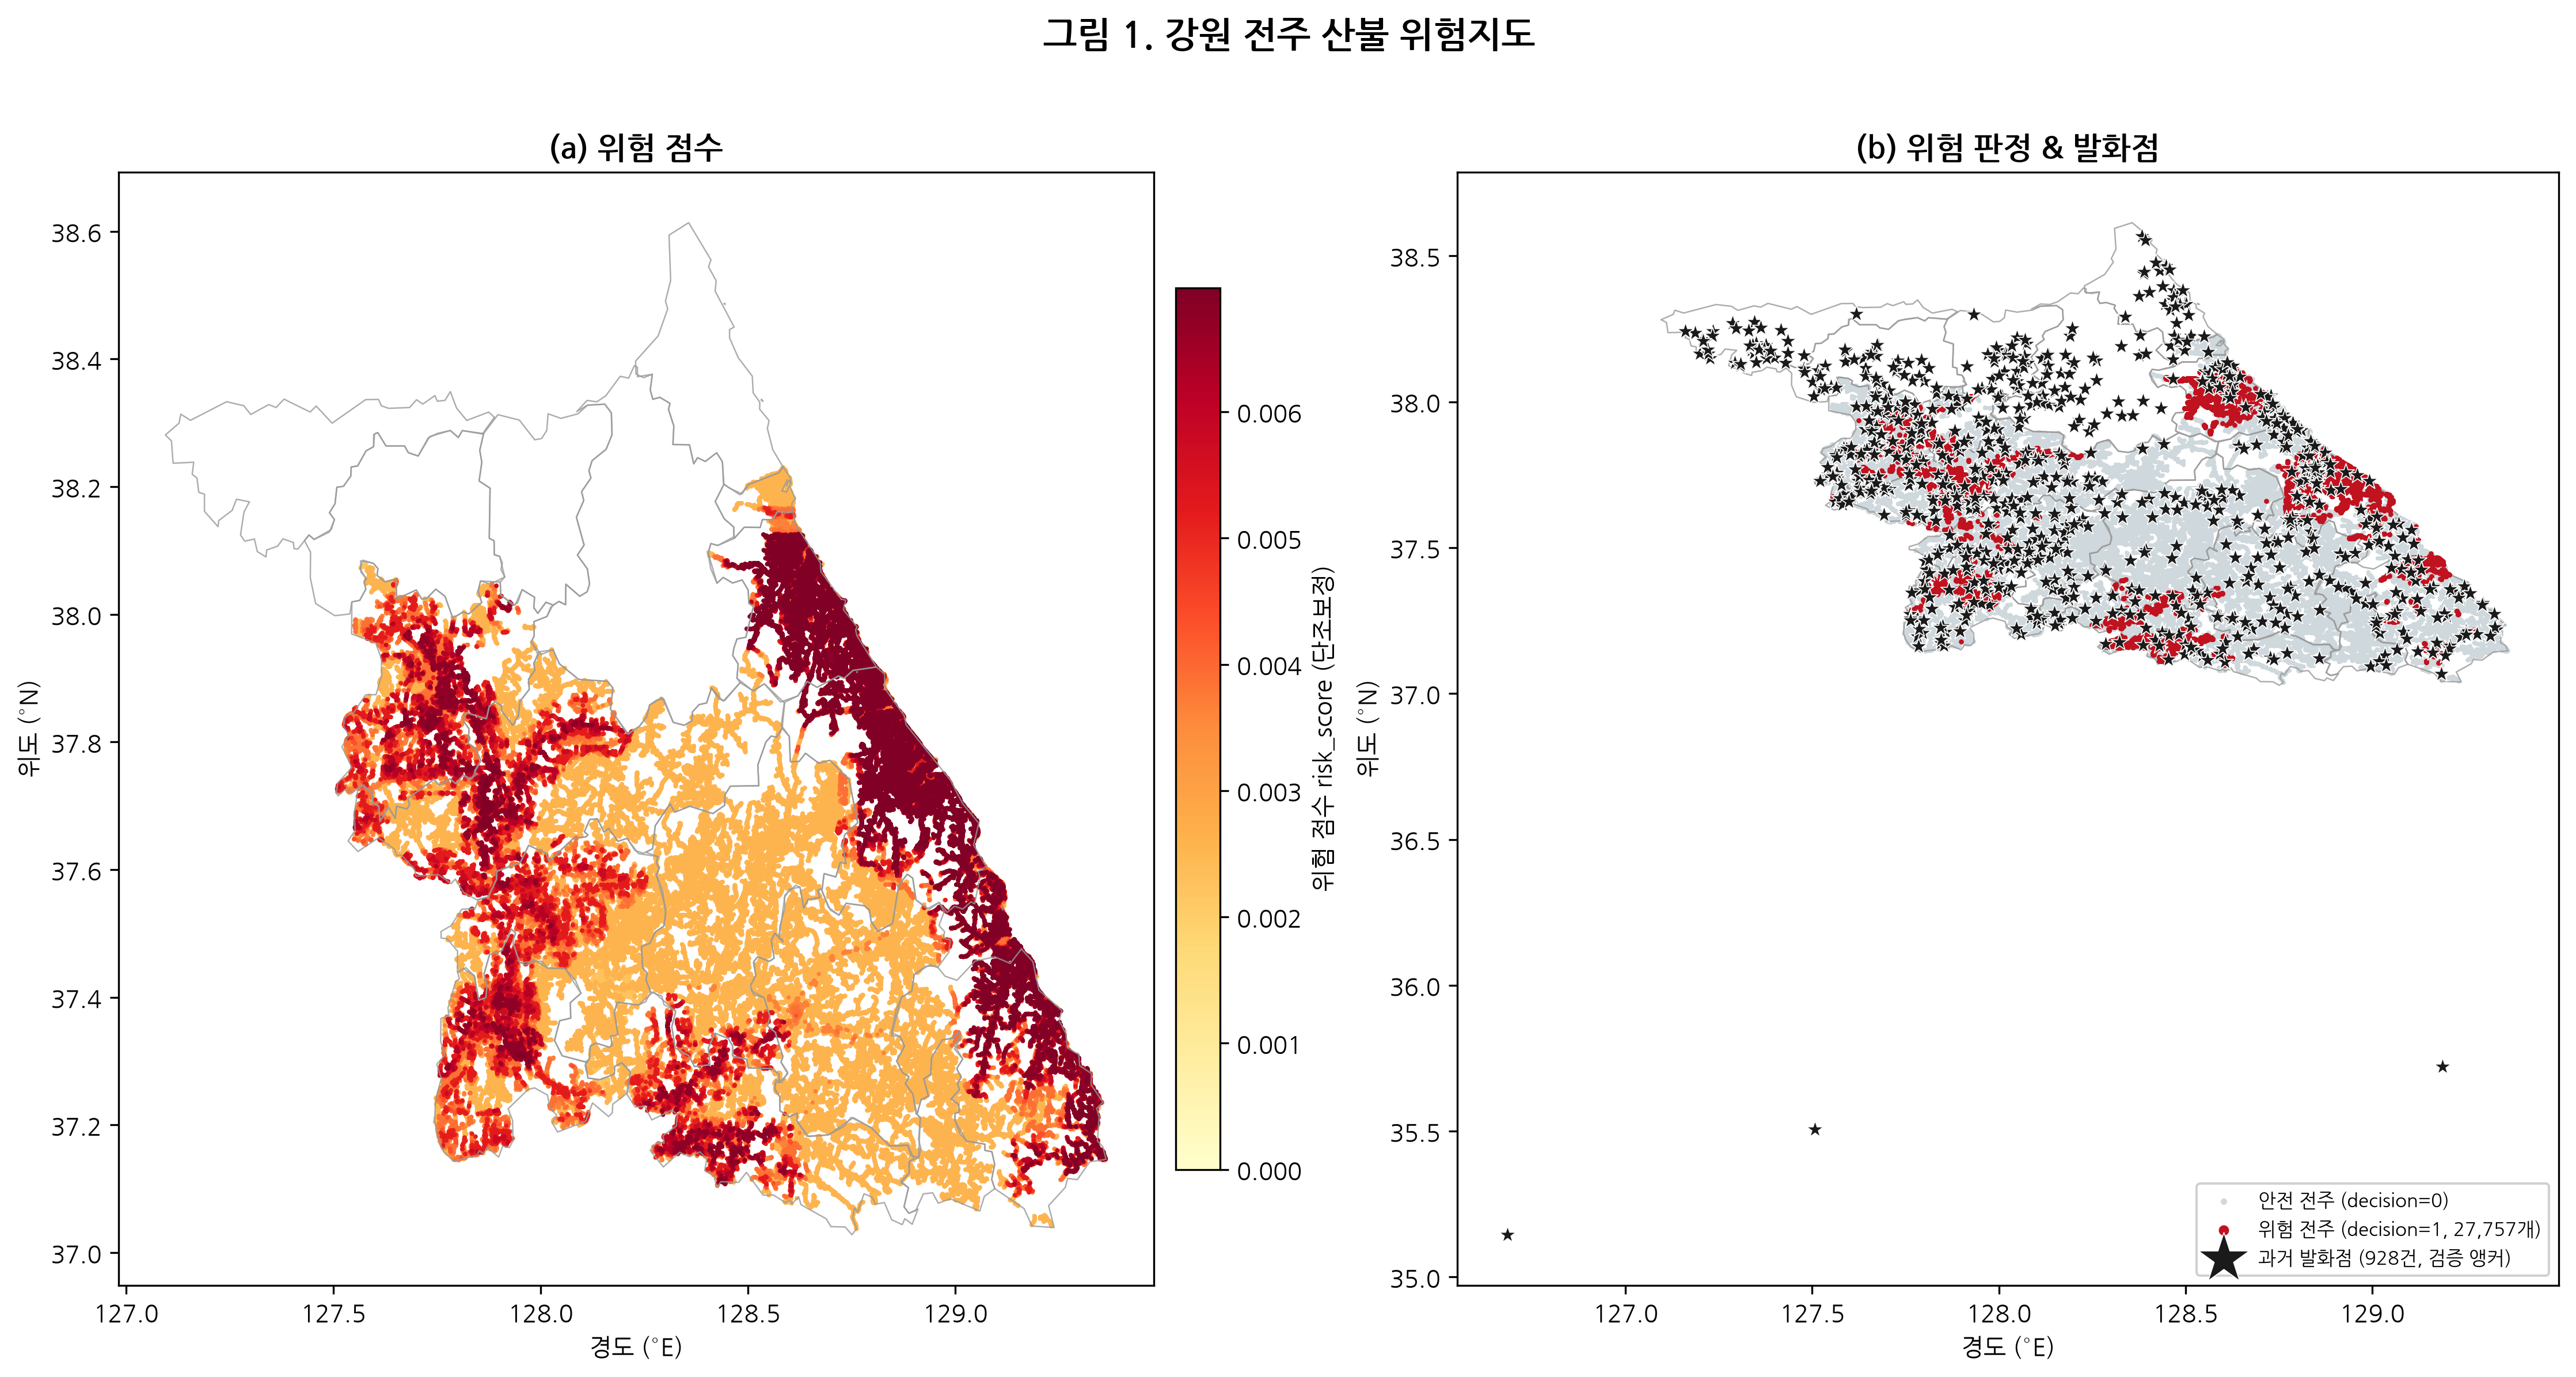
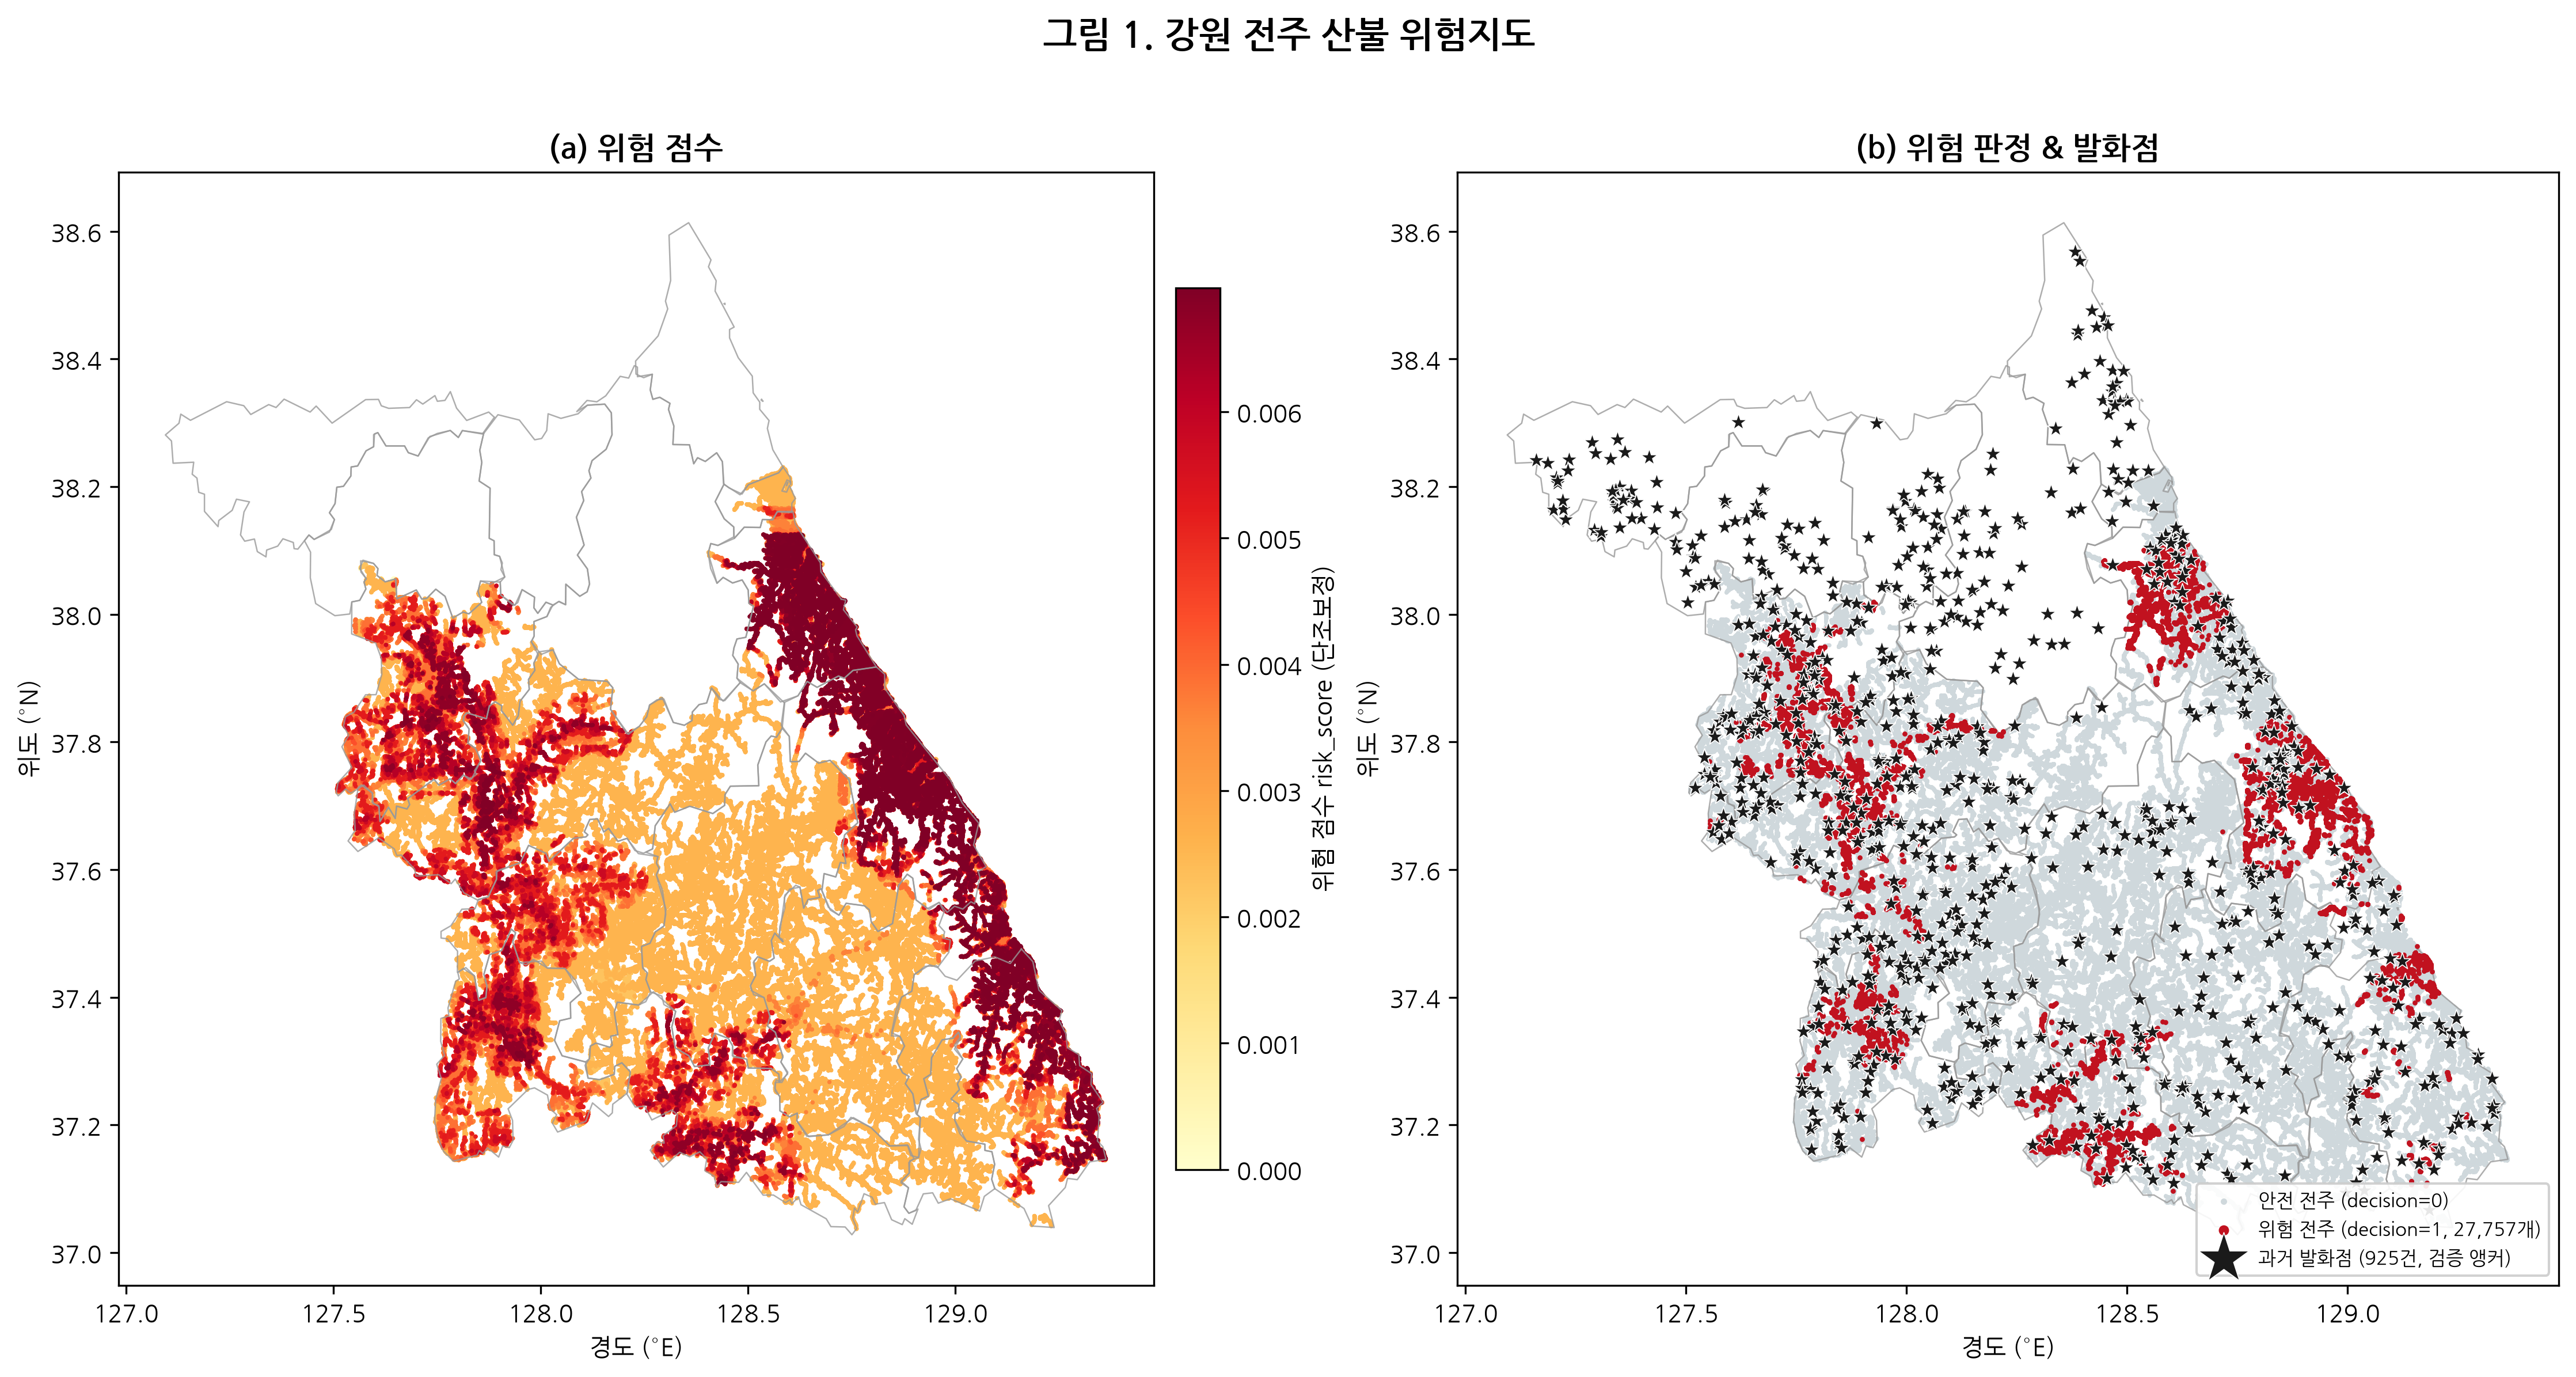
fix(figures): 발화점 강원 박스 필터 — 좌표오염 3건(35°N대) 제거
load_positives 가 '강원만' 주석과 달리 필터가 없어 강원 밖 safemap 좌표오염
3건(전남·경남·울산권, 35°N대)이 fig1(b)·fig5 하단에 점으로 찍혔음. lat 36.8~38.7·
lon 126.9~129.6 박스 필터 추가(928→925). 모델 미사용 좌표라 결과 불변, 그림만 정리.

diff --git a/scripts/make_figures.py b/scripts/make_figures.py
@@ -181,8 +181,12 @@ def load_submission() -> pl.DataFrame:
 
 def load_positives() -> pl.DataFrame:
     fp = pl.read_parquet(POSITIVES)
-    # 강원(ctprvn_cd 42 = 구 강원 코드) 좌표만, lon/lat 유효
-    return fp.select("lon", "lat", "occu_year", "occu_mt", "sgg_cd").drop_nulls(["lon", "lat"])
+    # 강원 박스만: safemap 에 강원 밖 좌표오염 3건(35°N대; 전남·경남·울산권)이 섞여
+    # 있어 그림 하단에 점으로 찍힘 — 모델 미사용(≤1km 전주 귀속서 자동 제외)·그림 정리용.
+    return (fp.select("lon", "lat", "occu_year", "occu_mt", "sgg_cd")
+            .drop_nulls(["lon", "lat"])
+            .filter((pl.col("lat") >= 36.8) & (pl.col("lat") <= 38.7)
+                    & (pl.col("lon") >= 126.9) & (pl.col("lon") <= 129.6)))
 
 
 # ════════════════════════════════════════════════════════════════════════════